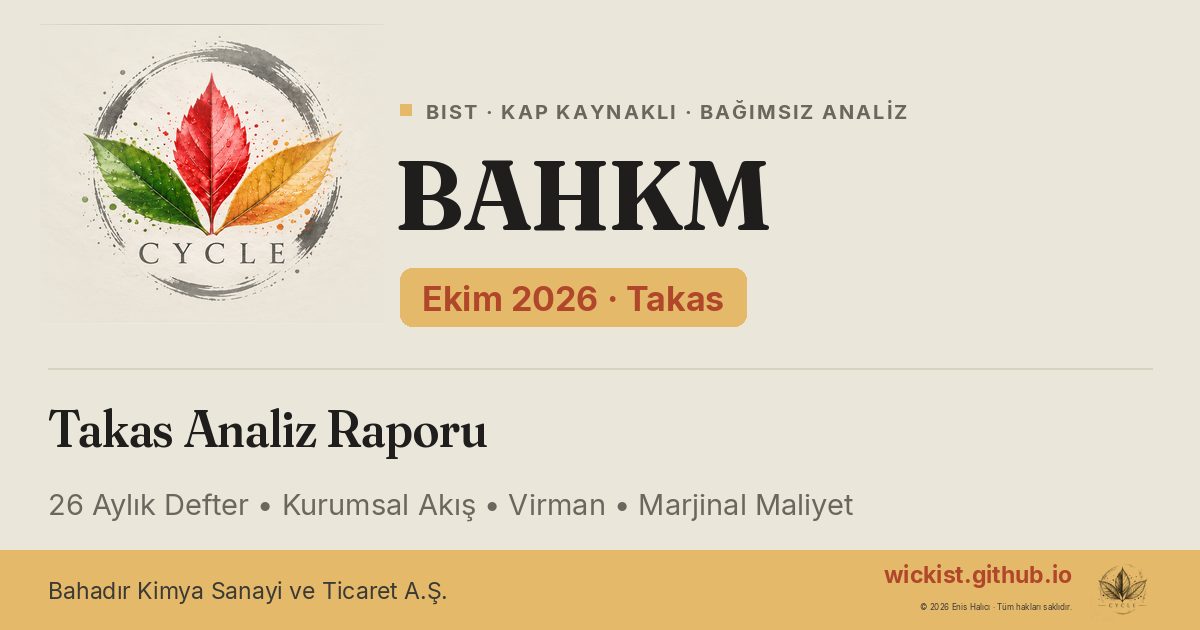
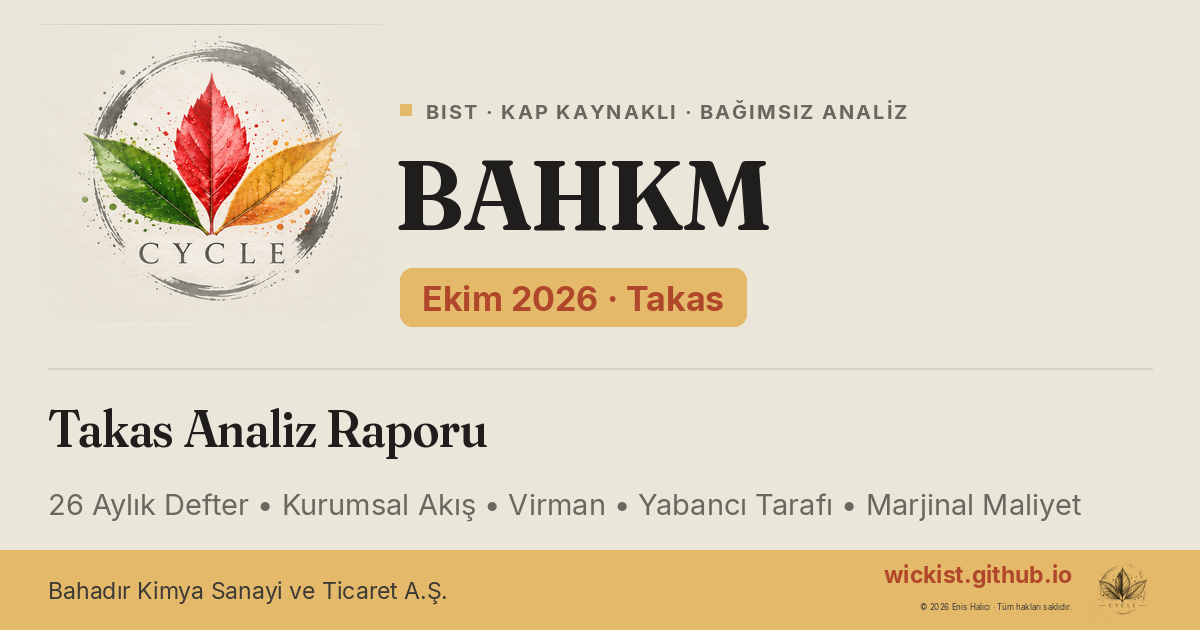
feat(report): yayinla BAHKM 2026-Q4 takas analizi + kapaklara yaprak logosu

Changed region(s): [[0.5242, 0.7841, 0.925, 0.8143]]

diff --git a/reports/BAHKM/2026-Q4/index.html b/reports/BAHKM/2026-Q4/index.html
@@ -2,12 +2,12 @@
 <html lang="tr"><head><meta charset="UTF-8"><meta name="viewport" content="width=device-width, initial-scale=1.0">
 <!-- site-publish:meta -->
 <title>BAHKM Takas Analiz Raporu — Akış, Virman, Marjinal Maliyet (Ağu 2024 – Eki 2026)</title>
-<meta name="description" content="26 aylık takas defteri: yedi aktörün kurumsal akışı, merdiven alımı, virman izi ve fon mal bırakması — toplayıcı kârda, satıcının tamponu boş.">
+<meta name="description" content="26 aylık takas defteri: yedi aktörün kurumsal akışı, merdiven alımı, virman izi, yabancı tarafının CIY/MLB kanalları ve fon mal bırakması — toplayıcı kârda, satıcının tamponu boş.">
 <link rel="canonical" href="https://wickist.github.io/reports/BAHKM/2026-Q4/">
 <meta property="og:type" content="article">
 <meta property="og:site_name" content="Finansal Analiz Raporları">
 <meta property="og:title" content="BAHKM Takas Analiz Raporu — Akış, Virman, Marjinal Maliyet (Ağu 2024 – Eki 2026)">
-<meta property="og:description" content="26 aylık takas defteri: yedi aktörün kurumsal akışı, merdiven alımı, virman izi ve fon mal bırakması — toplayıcı kârda, satıcının tamponu boş.">
+<meta property="og:description" content="26 aylık takas defteri: yedi aktörün kurumsal akışı, merdiven alımı, virman izi, yabancı tarafının CIY/MLB kanalları ve fon mal bırakması — toplayıcı kârda, satıcının tamponu boş.">
 <meta property="og:url" content="https://wickist.github.io/reports/BAHKM/2026-Q4/">
 <meta property="og:image" content="https://wickist.github.io/reports/BAHKM/2026-Q4/og-cover.png">
 <meta property="og:image:width" content="1200">
@@ -15,9 +15,9 @@
 <meta property="og:image:alt" content="BAHKM Takas Analiz Raporu — Akış, Virman, Marjinal Maliyet (Ağu 2024 – Eki 2026)">
 <meta name="twitter:card" content="summary_large_image">
 <meta name="twitter:title" content="BAHKM Takas Analiz Raporu — Akış, Virman, Marjinal Maliyet (Ağu 2024 – Eki 2026)">
-<meta name="twitter:description" content="26 aylık takas defteri: yedi aktörün kurumsal akışı, merdiven alımı, virman izi ve fon mal bırakması — toplayıcı kârda, satıcının tamponu boş.">
+<meta name="twitter:description" content="26 aylık takas defteri: yedi aktörün kurumsal akışı, merdiven alımı, virman izi, yabancı tarafının CIY/MLB kanalları ve fon mal bırakması — toplayıcı kârda, satıcının tamponu boş.">
 <meta name="twitter:image" content="https://wickist.github.io/reports/BAHKM/2026-Q4/og-cover.png">
-<script type="application/ld+json">{"@context": "https://schema.org", "@type": "Article", "headline": "BAHKM Takas Analiz Raporu — Akış, Virman, Marjinal Maliyet (Ağu 2024 – Eki 2026)", "description": "26 aylık takas defteri: yedi aktörün kurumsal akışı, merdiven alımı, virman izi ve fon mal bırakması — toplayıcı kârda, satıcının tamponu boş.", "inLanguage": "tr", "datePublished": "2026-10-15", "dateModified": "2026-10-15", "url": "https://wickist.github.io/reports/BAHKM/2026-Q4/", "image": "https://wickist.github.io/reports/BAHKM/2026-Q4/og-cover.png", "publisher": {"@type": "Organization", "name": "Finansal Analiz Raporları"}, "about": {"@type": "Organization", "name": "Bahadır Kimya Sanayi ve Ticaret A.Ş.", "tickerSymbol": "BAHKM"}}</script>
+<script type="application/ld+json">{"@context": "https://schema.org", "@type": "Article", "headline": "BAHKM Takas Analiz Raporu — Akış, Virman, Marjinal Maliyet (Ağu 2024 – Eki 2026)", "description": "26 aylık takas defteri: yedi aktörün kurumsal akışı, merdiven alımı, virman izi, yabancı tarafının CIY/MLB kanalları ve fon mal bırakması — toplayıcı kârda, satıcının tamponu boş.", "inLanguage": "tr", "datePublished": "2026-10-15", "dateModified": "2026-10-15", "url": "https://wickist.github.io/reports/BAHKM/2026-Q4/", "image": "https://wickist.github.io/reports/BAHKM/2026-Q4/og-cover.png", "publisher": {"@type": "Organization", "name": "Finansal Analiz Raporları"}, "about": {"@type": "Organization", "name": "Bahadır Kimya Sanayi ve Ticaret A.Ş.", "tickerSymbol": "BAHKM"}}</script>
 <style>
 @import url('https://fonts.googleapis.com/css2?family=Fraunces:opsz,wght@9..144,400;9..144,600&family=Inter:wght@400;500;600;700&display=swap');
 :root{--bg:#F0EEE6;--panel:#FAF9F5;--ink:#1F1E1D;--accent:#D97757;--danger:#B0472A;--sage:#6A8E7F;--gold:#C9A227;--line:#DED9CB;}
@@ -67,7 +67,7 @@ code{font-family:ui-monospace,monospace;font-size:.9em;background:#EFEBDD;border
 <span style="color:#B0472A;font-weight:600">Ekim 2026 · Takas</span>
 </nav>
 <nav><div class="wrap"><span class="brand">BAHKM</span>
-<a href="#karar">Karar</a><a href="#gecmis">IPO→2025</a><a href="#fiyat">Fiyat–Float</a><a href="#ceyrek">Akış haritası</a><a href="#virman">Virman</a><a href="#akim">Akış içgörüsü</a><a href="#yurutme">Maliyet tarihi</a><a href="#izleme">İzleme</a><a href="#kap">KAP</a><a href="#oda2025">ODA-2025</a><a href="#mikro">Mikro W37–41</a><a href="#fon">Fon dosyası</a><a href="#bosluk">Boşluklar</a></div></nav>
+<a href="#karar">Karar</a><a href="#gecmis">IPO→2025</a><a href="#fiyat">Fiyat–Float</a><a href="#ceyrek">Akış haritası</a><a href="#virman">Virman</a><a href="#akim">Akış içgörüsü</a><a href="#yurutme">Maliyet tarihi</a><a href="#izleme">İzleme</a><a href="#kap">KAP</a><a href="#oda2025">ODA-2025</a><a href="#mikro">Mikro W37–41</a><a href="#fon">Fon dosyası</a><a href="#yabanci">Yabancı</a><a href="#bosluk">Boşluklar</a></div></nav>
 <div class="wrap">
 
 <section class="hero" id="karar">
@@ -82,13 +82,14 @@ code{font-family:ui-monospace,monospace;font-size:.9em;background:#EFEBDD;border
 <div class="kpi"><div class="v">7,77 mn lot</div><div class="l">YAT pozisyon · takasın %33,4'ü · yürütme ref. 150,34 ₺</div></div>
 <div class="kpi"><div class="v">+7,07 mn lot</div><div class="l">2025 virman taşıması (Eyl+Kas) — işlem değil</div></div>
 <div class="kpi"><div class="v">2,41 mn lot</div><div class="l">YATFON grubu · %10,35 · ilk giriş Eki-2025</div></div>
+<div class="kpi"><div class="v">%2,49 · 387.654</div><div class="l">yabancı oranı · pozisyon (lot, 15.10) — Mar-26 zirvesi 1,95 mn; kanal CIY/MLB</div></div>
 </div>
 </section>
 
 <section id="gecmis"><h2>IPO'dan bugüne: 51 ₺ → 152 ₺ — defter üç kez el değiştirdi, ikisi virmanla</h2>
 <p><b>Pencere genişletildi: 13.08.2024 → 15.10.2026, 114 hafta, 67 kurum</b> (+73 takas, +73 AKD çağrısı). 2024-2025 verisi bugünkü defteri açıklıyor. Üç olgu:</p>
 <ol>
-<li><b>IPO (Ağu 2024):</b> sabit fiyat 51,00 ₺, 16 mn lot (10 mn sermaye artırımı + 6 mn Serkan Bahadır satışı) / 816 mn ₺, halka açıklık %29,09, Tera liderliğinde 39 kurum konsorsiyum. İlk gün 56,1 ₺; beş ardışık tavan kapanış, 20.08'de gün içi 90,25 ₺ zirvesi ve aynı gün dönüş; 09.10.2024 dibi 39,62 ₺ (IPO'ya −%22,3). Dağıtım dalgası: konsorsiyum hesabı TRA 2,43 mn lotu iki haftada boşalttı (1,83 mn'u işlem), YATFON grubu −1,11 mn; eylül-ekimde CIY↔MLB virman koridoru ~3 mn lot taşıdı (±4 lot ayna çiftler — tüm pencerenin en kesin çiftleri). YAT'ın IPO'daki pozisyonu <b>8.660 lot</b> — defter boştu.</li>
+<li><b>IPO (Ağu 2024):</b> sabit fiyat 51,00 ₺, 16 mn lot (10 mn sermaye artırımı + 6 mn Serkan Bahadır satışı) / 816 mn ₺, halka açıklık %29,09, Tera liderliğinde 39 kurum konsorsiyum. İlk gün 56,1 ₺; beş ardışık tavan kapanış, 20.08'de gün içi 90,25 ₺ zirvesi ve aynı gün dönüş; 09.10.2024 dibi 39,62 ₺ (IPO'ya −%22,3). Dağıtım dalgası: konsorsiyum hesabı TRA 2,43 mn lotu iki haftada boşalttı (1,83 mn'u işlem), YATFON grubu −1,11 mn; eylül-ekimde CIY↔MLB virman koridoru ~3 mn lot taşıdı (±4 lot ayna çiftler — tüm pencerenin en kesin çiftleri). İlk yabancı dalgası da aynı koridordan yürüdü: 02–06.09.2024 +1,19 mn lot, yabancı 16.09.2024'te <b>%10,68</b> oran tepesine çıktı — CIY takası +1,18 mn ile birebir örtüşür. YAT'ın IPO'daki pozisyonu <b>8.660 lot</b> — defter boştu.</li>
 <li><b>2025 blok taşımaları:</b> YAT 01.09.2025 haftasında net işlemi −57 bin lot iken <b>+3,28 mn lot</b> takasa oturdu (hafta içi virman); 10.11'de hafta sonu köprüsünden <b>+3,79 mn</b> daha geldi (6–7.11 piyasa hacmi 1,95 mn lot — işlem olamaz). Gönderen tanınamıyor (boşluk 11). Aynı sonbaharda float %29,9→35,7 açıldı (Tipe D 28.08/03.11/27.11 + SPK 30.10.2025/56 Bahadır 3,85 mn onayı + II-15.1 dalgası) ve <b>fon grubu ilk kez BAHKM aldı: YATFON 0→1,65 mn (06.10 haftası) → 2,15 mn (26.12 ay-sonu); Ocak 2026'da 2,84 zirvesi</b> (DZY yürütmeli ±%0,8 ayna çiftler) — bugünkü PHF döngüsünün selefi. İlk yarı 2025'te YAT +1,79 mn birikti; haziranda VKY −2,24 mn bloğu çıkıp FNY +1,95 mn ile girdi (AKD boş — ayrım yapılamaz, boşluk 9).</li>
 <li><b>2026 (raporun çekirdeği):</b> martta 1,5 mn lot virmanla TKSDG'ye, float %40,2 zirvesi; eylülde PHF kaldıracı ve 23.09 tasfiyesi + YKB 1,275 mn lot geri alımı; ekimde fon satışı maliyet tabanında (148–149 ₺) TAC/YAT'a. <b>Bugün: YAT 7,77 mn lot (takasın %33,4'ü, float'ın %49,9'u), YATFON 2,41 mn, float %28,28 — IPO gününden 0,8 puan daha ince.</b></li>
 </ol>
@@ -260,10 +261,10 @@ code{font-family:ui-monospace,monospace;font-size:.9em;background:#EFEBDD;border
 <tr><td><b>YATFON ↔ DZY</b><br>(fon + geçit)</td><td style="text-align:center;white-space:nowrap"><span style="color:#B0472A;font-size:16px;font-weight:700">↓</span><br><span style="font-size:10.5px">satmaya devam<br>W5 −675 b @148,80</span></td><td>YATFON 2,41 mn lot (%10,35, grubun maliyeti yok); DZY Ekim satışının geçidi @148,80 ₺, kitabı 394 b lot</td><td>DZY AKD neti ↔ YATFON Δ ayna çiftleri (<code>v_artik</code>); 202610 fon raporu (~Kasım ortası)</td><td><b>DZY büyük satış (−500 b ölçek) + YATFON aynası:</b> fon arzı sürüyor — baskı devam. <b>DZY satıyor ama ayna YATFON değil:</b> yeni satıcı fon/kurum — kimlik 202610 raporuyla çözülür. <b>YATFON Δ&gt;0 + alış aynası:</b> fon alımı geri döndü.</td></tr>
 <tr><td><b>PHF kalan pay</b></td><td style="text-align:center;white-space:nowrap"><span style="color:#6B675E;font-size:16px;font-weight:700">—</span><br><span style="font-size:10.5px">beklemede<br>MBS 0 · BF onayı bekliyor</span></td><td>1.207.357 lot ≈ float'ın %7,5'i; BF yalnız SPK başvurusu, onay kamuya açık değil</td><td>MBS saklama seviyesi + <code>fundFlows</code> (itfa) + KAP BF onay duyurusu</td><td><b>SPK onayı:</b> arz kuyruğu işler — takasta pay arama. <b>MBS Δ&lt;0 + MBS tarafında AKD satışı:</b> gerçek satış (virman değil). <b>İtfa sürüyor + kaldıraç %112:</b> zorunlu satış olasılığı artar.</td></tr>
 <tr><td><b>ZRY</b></td><td style="text-align:center;white-space:nowrap"><span style="color:#B0472A;font-size:16px;font-weight:700">↓</span><br><span style="font-size:10.5px">satıyor<br>W5 −32 b · görünür net −1,44 mn</span></td><td>Görünür neti −1,44 mn (satıcı taraf); son yürütme ref. 164,64 ₺ — kapanışın %9 üstü</td><td>Haftalık AKD yönü ve fiyatı</td><td><b>@&lt;160 ₺ satış:</b> zararına satış — zorunlu satıcı; arzın sürmesi beklenir.</td></tr>
-<tr><td><b>MLB</b><br>(Bank of America)</td><td style="text-align:center;white-space:nowrap"><span style="color:#6B675E;font-size:16px;font-weight:700">—</span><br><span style="font-size:10.5px">tür atıyor<br>W5 −103 b · yön belirsiz</span></td><td>En yönlü oyuncu ama turun kendisi: W1 +153 / W2 +489 / W3 −571 / W4 +353 / W5 −103 b lot</td><td>İki hafta üst üste aynı yönde net + float inceliyor mu</td><td><b>Tek hafta neti sinyal değildir</b> — iki hafta art arda net alım + float düşüşü eşzamanlıysa yabancı birikimi olarak ciddiye alınır.</td></tr>
+<tr><td><b>MLB</b><br>(Bank of America)<br><span style="font-size:10px;color:#6B675E">+ yabancı tarafı</span></td><td style="text-align:center;white-space:nowrap"><span style="color:var(--sage);font-size:16px;font-weight:700">↑</span><br><span style="font-size:10.5px">deşifre<br>W2 +489 b = yabancı girişi</span></td><td>Yabancı pozisyon 387.654 lot (%2,49, 15.10) — Mar-26 zirvesi 1,95 mn lot; akış kanalları CIY r=0,81 (eğim ≈1,0) / MLB r=0,39</td><td><code>yabanci_gunluk</code> haftalık Δ (doğrudan ölçüm) + CIY/MLB takas Δ</td><td><b>Tek hafta kurum neti artık sinyal değildir</b> — Δyabancı iki hafta üst üste &gt;+200 b: yabancı birikimi, taze alıcı kanal. Δyabancı iki hafta üst üste &lt;−300 b: yabancı çıkışı, satıcı tamponu zayıflar → TUT yeniden değerlendirilir.</td></tr>
 <tr><td><b>Kurucu ailesi</b></td><td style="text-align:center;white-space:nowrap"><span style="color:#6B675E;font-size:16px;font-weight:700">—</span><br><span style="font-size:10.5px">bildirim yok<br>son DUY 05.12.2025</span></td><td>ŞGBF: Serkan %64,02 / Sezai %0,29; II-15.1 dalgası 18.09–05.12.2025 kapandı</td><td>KAP II-15.1/OGT bildirimleri + aylık ŞGBF formları + yeni BF başvurusu</td><td><b>Yeni BF başvurusu/onayı:</b> yeni arz hattı — 2025 emsali float'ı +6,7 pp genişletti. <b>TKSDG/Sezai payı düşerken Serkan artıyorsa:</b> aile içi devir — arz değil (26–27.11.2025 kalıbı).</td></tr>
 </table></div>
-<div class="okbox"><b>Karar zinciri:</b> YAT gerçek satışa geçmedikçe (@&lt;146 ₺ ve haftada &gt;500 b lot) ve TAC 148,95 ₺ üstünde savunmayı sürdürdüğü sürece <b>TUT</b> korunur; bu iki tetikten biri ateş alırsa karar yeniden değerlendirilir. <b>Haftalık ritim:</b> Pzt akşamı 21:00 sonrası önceki haftanın kesinleşmiş takası + AKD teyit penceresi; çekimden önce <code>v_artik</code>'e sor — eksik hafta yoksa Matriks'e gidilmez; çekim sonrası <code>hesapla.py</code> koş, eşik altı artık'ları yorumlama.</div>
+<div class="okbox"><b>Karar zinciri:</b> YAT gerçek satışa geçmedikçe (@&lt;146 ₺ ve haftada &gt;500 b lot) ve TAC 148,95 ₺ üstünde savunmayı sürdürdüğü sürece <b>TUT</b> korunur; bu iki tetikten biri ateş alırsa karar yeniden değerlendirilir. <b>Yabancı hattı:</b> yabancı birikim/çıkışı artık kurum turundan değil <code>yabanci_gunluk</code> Δ'sından doğrudan okunur; CIY/MLB tek-hafta netleri teyittir, sinyal değil. <b>Haftalık ritim:</b> Pzt akşamı 21:00 sonrası önceki haftanın kesinleşmiş takası + AKD teyit penceresi; çekimden önce <code>v_artik</code>'e sor — eksik hafta yoksa Matriks'e gidilmez; çekim sonrası <code>hesapla.py</code> koş, eşik altı artık'ları yorumlama.</div>
 <div class="flag"><b>Üç tuzak:</b> (1) <code>Maliyet:</code> 150,34 ₺'yi YAT'ın kitap maliyeti sanmak — alan yürütme referansıdır, 107 haftalık testte kitap sabitken 113→186→114 ₺ osilasyona çıktı. (2) Virmanı satış saymak — fonlar AKD'de hiç görünmez, tek taraflı büyük Δ'lar köprü teyidi ister; ayna bulunamıyorsa "gönderen/alıcı bilinmiyor" denir. (3) YATFON/MBS/TEB/TKSDG saklama hareketlerini işlem kararıyla açıklamak — bu hesapların Δ'sı maliyetsiz yer değiştirmedir.</div>
 </section>
 <section id="kap"><h2>23.09: yılın en yüksek kapanışında fon sattı, yönetim kurulu başkanı aldı</h2>
@@ -290,6 +291,7 @@ code{font-family:ui-monospace,monospace;font-size:.9em;background:#EFEBDD;border
 <tr><td>Oca–Eki</td><td>devre kesici 34 + işlem sırası durdurma 20 (Q3 en yoğun 12); pay geri alım bildirimi 24; birleşme bildirimi 4</td><td>olay sayımları</td></tr>
 </table></div>
 <div class="flag"><b>23.09 zirve el değişimi:</b> yılın zirve kapanışında (192 ₺) %5,1'lik fon ortağı PHF, 1,60 mn lotu kendisini kuran geçitten (PIT; net alım ortalaması 191,58 ₺) sattı — 24.09 bildirimi II-15.1 md.12/b eşik düşüşü (oran %5,1→%2,2). Aynı gün <b>Yönetim Kurulu Başkanı Serkan Bahadır 1,275 mn lotu 186,70–194,50 ₺ bandından devraldı</b> (%0→%2,32; satışın en az bu kadarı aynı gün/aynı bantta ona geçti — örtüşme çıkarımı). <b>Bekleyen arz:</b> kalan 1.207.357 lot için 07.10'da Pay Satış Bilgi Formu onayı SPK'ya başvuruldu; gerekçe 28.08.2026/52/1589 Rehberi değişikliğine uyum (ilk dilim için aynı gerekçe çıkarım; onay sonucu kamuya açık değil) — float'ın ~%7,5'i. Ertesi gün −%10; 15.10'da zirveden −%20,8. Alıcının maliyet bandı bugünkü fiyatın ~%25 üstünde; PHF'nin ilk dilim (01–17.09) maliyeti bilinmiyor.</div>
+<p class="note"><b>Satılan blokta yabancı payı:</b> aynı hafta (21–25.09.2026) yabancı pozisyonu +469.986 lot arttı (MLB +489.180; %96 örtüşme) — 1,60 mn lotluk fon satışının ~%29'una denk gelen kısım yabancı alıcıya yerleşti; "tek alıcı patron" okuması yabancı kanalıyla genişledi <span class="tag cikarim">çıkarım</span>.</p>
 </section>
 
 <section id="oda2025"><h2>Özel durum 2025 (131 blok): şirket kendisi aldı, kurucu eylülde sattı, aralıkta fabrika yandı</h2>
@@ -400,6 +402,32 @@ code{font-family:ui-monospace,monospace;font-size:.9em;background:#EFEBDD;border
 <div class="flag"><b>Bekleyen arz:</b> kalan 1.207.357 lot için 07.10.2026'da Pay Satış Bilgi Formu onayı SPK'ya başvuruldu (VII-128.1 md.27; gerekçe 28.08.2026/52/1589 Rehberi değişikliğine uyum); onay kararı kamuya açık değil. 1667987 numaralı KAP duyurusu MKK'nın BAHKM dahil 12 şirketli II-15.1 12-(4) sarmalayıcı bildirimidir, PHF onay duyurusu değildir.</div>
 </section>
 
+<section id="yabanci"><h2>Yabancı tarafı: 2026'da 1,95 mn lottan 388 b lote tam çıkış — akış CIY ve MLB kanallarından yürür, PHF haftasında yabancı tek taze alıcıydı</h2>
+<p>Günlük yabancı oranı (İş Yatırım şirket kartı API'si, MKK saklama tabanlı): payda <b>halka açık paylar (float)</b> — kaynak sözlüğünün birebir tanımı; <code>yabanci_lot = oran × float</code>. Δ konvansiyonu: takas-başı satırı → takas-sonu satırı (tatilde kaynağın gerçek son seansına geri kaydırılmış değerleriyle) — önceki hafta kapanışı farkı değildir. Seri 19.08.2024 → 15.10.2026, 227 takas tarihi (12–16.08.2024 haftası kaynakta boş). Oran tepesi ile lot tepesi ayrı olaylardır: oran <b>%10,68 (16.09.2024, 1,71 mn lot)</b>; lot, float büyümesiyle <b>1,95 mn (27.03.2026, %8,82)</b>.</p>
+<div class="tblwrap"><table>
+<tr><th>Tarih</th><th>Oran</th><th>Yabancı (lot)</th><th>Anlam</th></tr>
+<tr><td>16.08.2024</td><td>%2,52</td><td>403.499</td><td>Kapsam başı (12–16.08 kaynakta boş)</td></tr>
+<tr><td>16.09.2024</td><td><b>%10,68</b></td><td>1.707.910</td><td>Oran tepesi — birinci dalga</td></tr>
+<tr><td>27.03.2026</td><td>%8,82</td><td><b>1.948.618</b></td><td>Lot tepesi</td></tr>
+<tr><td>04.09.2026</td><td>%0,73</td><td>130.154</td><td>Çıkış dibi</td></tr>
+<tr><td>15.10.2026</td><td>%2,49</td><td>387.654</td><td>Bugünkü</td></tr>
+</table></div>
+<p><b>Dalga yapısı:</b> birinci dalga 02–16.09.2024'te girdi (794 → 1,71 mn lot; 02–06.09 haftası +1,19 mn), ekim sonunda 79,4 b lote indi; ikinci dalga Kasım 2025 (24–28.11 haftası +752,9 b) → Mart 2026'da 1,95 mn zirvesi; <b>2026'nın ilk yarısında net −1,82 mn lot çıkış</b> (tepe → 04.09.2026 dibi). Eyl–Eki 2026'da iki kısmi dönüş: 21–25.09 +469.986, 05–09.10 +223.930 — bugünkü 387,7 b lot float'ın ~%2,4'ü.</p>
+<p><b>Kanal (113 etkili hafta, <code>v_artik</code> join'i):</b> CIY (Citibank Yabancı) korelasyon <b>r=0,81, regresyon eğimi ≈1,0</b> — yabancı Δ ile CIY takas neti bire bire yakın; MLB (Bank of America) ikinci kanal, r=0,39 (%76 işaret uyumu, Σ|net| 14,4 mn):</p>
+<div class="tblwrap"><table>
+<tr><th>Takas haftası</th><th>Δyabancı (lot)</th><th>Kanal teyidi (kurum takas Δ)</th></tr>
+<tr><td>02–06.09.2024</td><td>+1.191.279</td><td>CIY +1.180.000 (±%1)</td></tr>
+<tr><td>16–20.09.2024</td><td>−1.024.242</td><td>CIY −1.010.000</td></tr>
+<tr><td>21–25.10.2024</td><td>−897.309</td><td>CIY −891.380</td></tr>
+<tr><td>24–28.11.2025</td><td>+752.910</td><td>MLB +524.300 + CIY +340.060</td></tr>
+<tr><td>15–19.12.2025</td><td>−534.455</td><td>MLB −463.970</td></tr>
+<tr><td>21–25.09.2026</td><td><b>+469.986</b></td><td><b>MLB +489.180 (%96)</b></td></tr>
+</table></div>
+<div class="okbox"><b>Okuma:</b> (1) Mikro W37–41 tablosundaki "MLB W2 +489,2 b" turu deşifre oldu: aynı hafta yabancı 466,0 → 936,0 b lot (+470,0 b, %96 örtüşme) — 23.09 satışında bloğun ~%29'una denk gelen kısım yabancıya geçti; 192 ₺ zirvesinde tek taze alıcı patron + yabancı kanaldı <span class="tag cikarim">çıkarım</span>. (2) CIY+MLB kitap toplamı / yabancı pozisyon medyan 0,97 (87 hafta) — seviye atfı kısmîdir, yabancı kurumların tam listesi kamuya açık değil. (3) Yabancının bugünkü tamponu ince: float'ın ~%2,4'ü; W5 hareketi (−18.883 lot) eşik altı gürültü.</div>
+<p class="note">Sınırlar: oran paydası float'tır — toplam nominal kullanılsaydı TUPRS'ta oran × toplam nominal float'ı aşardı (imkânsız), tanım kaynağın glossary'sinden birebir alındı; kapsam 19.08.2024'te başlar; katı tarih eşleşmesi — tatil gününde istek boş döner, betik en çok 4 gün geri kaydırır (<code>kaynak_tarih</code>).</p>
+</section>
+
+
 <section id="bosluk"><h2>Veri boşlukları — bulunamadı, uydurulmadı</h2>
 <ol>
 <li><b>W21 (25–26.05) takas neti tüm kurumlarda 0</b>: T+2 teslimatlar Kurban tatiline (27–29.05) denkleşti; değişim 01.06'ya taşar. AKD (39 kurum) tek işlem kanıtı.</li>
@@ -413,6 +441,7 @@ code{font-family:ui-monospace,monospace;font-size:.9em;background:#EFEBDD;border
 <li><b>2025 "boş pencere" tespitinin düzeltilmiş okuması</b>: 31.03/30.06/25.08.2025 probeleri 26+15 ile 24+25 kayıt döndürüyor; 114/114 AKD penceresi dolu — asıl mesele pencere boşluğu değil, <b>virmanın işlem olmaması</b>: 02.06 VKY −3,12 mn Δ / −15 b AKD uyumsuzluğu yapısal. H1-2025 seviye değişimleri (YAT +1,79 mn, FNY +1,95 mn, VKY −2,24 mn) "işlem mi blok transferi mi" belirsizliğini taşır — VKY→FNY haziran transferi yalnız seviye kanıtlı çıkarımdır.</li>
 <li><b>2024 ODA export'u + 2025 Ocak'ın ilk yarısı yok:</b> olay kapsaması 14.01.2025→ (01–13.01.2025 export'ta yok; 2024 export'u hiç yok) — IPO olayları yalnız web + fiyat verisinden (kaynak 12); 2025 II-15.1 bildirimlerinin adet/fiyat/oranı ek PDF'lerde, 6 bildirimin gövdesi export'a hiç düşmemiş.</li>
 <li><b>Virman bağışçısı bilinmiyor</b>: Eylül 2025 +3,28 mn ve 10.11.2025 +3,79 mn lotun YAT hesabına geliş tarafı — gönderen kurum listede yok (saklama kayıtları kamuya açık değil). Boyut SPK onaylı 3,85 mn'a (30.10.2025/56, Bahadır) yakın ama float % kasımda yalnız +0,51 puan oynadı → kurucu bloğu değil, büyük olasılıkla float içi el değiştirme (çıkarım).</li>
+<li><b>Yabancı oranı kapsam ve atıf sınırları:</b> İş Yatırım serisi BAHKM'de 19.08.2024'te başlıyor — 12–16.08.2024 haftası kaynakta boş (veri yok, uydurulmadı); yabancı kurumların tam listesi kamuya açık değil — seviye atfı CIY+MLB ile kısmî (87 hafta hizalama medyanı 0,97); oran paydası float'tır.</li>
 </ol>
 </section>
 <div class="copy">Üretim: takas projesi · hesaplama zinciri <code>hesaplama/</code> · üretilme 2026-10-15<div class="rights">© 2026 Enis Halıcı · Tüm hakları saklıdır.</div></div>

diff --git a/index.html b/index.html
@@ -41,7 +41,7 @@
 <div class="card" data-card data-search="BAHKM Bahadır Kimya Sanayi ve Ticaret A.Ş. 2026-Q4 Ekim 2026 · Takas 2026 BAHKM Takas Analiz Raporu — Akış, Virman, Marjinal Maliyet (Ağu 2024 – Eki 2026)" data-year="2026" data-quarter="4">
 <span class="period">BAHKM · Ekim 2026 · Takas</span>
 <span class="title">BAHKM Takas Analiz Raporu — Akış, Virman, Marjinal Maliyet (Ağu 2024 – Eki 2026)</span>
-<span class="desc">26 aylık takas defteri: yedi aktörün kurumsal akışı, merdiven alımı, virman izi ve fon mal bırakması — toplayıcı kârda, satıcının tamponu boş.</span>
+<span class="desc">26 aylık takas defteri: yedi aktörün kurumsal akışı, merdiven alımı, virman izi, yabancı tarafının CIY/MLB kanalları ve fon mal bırakması — toplayıcı kârda, satıcının tamponu boş.</span>
 <span class="meta">Güncelleme: 2026-10-15</span>
 <a class="open" href="/reports/BAHKM/2026-Q4/">Raporu Aç</a>
 </div>

diff --git a/reports/BAHKM/index.html b/reports/BAHKM/index.html
@@ -31,7 +31,7 @@
 <div class="card" data-card data-search="BAHKM Bahadır Kimya Sanayi ve Ticaret A.Ş. 2026-Q4 Ekim 2026 · Takas 2026 BAHKM Takas Analiz Raporu — Akış, Virman, Marjinal Maliyet (Ağu 2024 – Eki 2026)" data-year="2026" data-quarter="4">
 <span class="period">Ekim 2026 · Takas</span>
 <span class="title">BAHKM Takas Analiz Raporu — Akış, Virman, Marjinal Maliyet (Ağu 2024 – Eki 2026)</span>
-<span class="desc">26 aylık takas defteri: yedi aktörün kurumsal akışı, merdiven alımı, virman izi ve fon mal bırakması — toplayıcı kârda, satıcının tamponu boş.</span>
+<span class="desc">26 aylık takas defteri: yedi aktörün kurumsal akışı, merdiven alımı, virman izi, yabancı tarafının CIY/MLB kanalları ve fon mal bırakması — toplayıcı kârda, satıcının tamponu boş.</span>
 <span class="meta">Güncelleme: 2026-10-15</span>
 <a class="open" href="/reports/BAHKM/2026-Q4/">Raporu Aç</a>
 </div>
